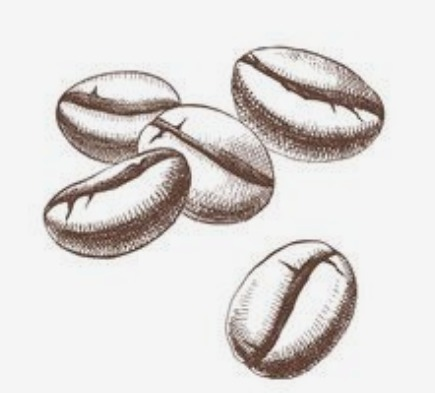
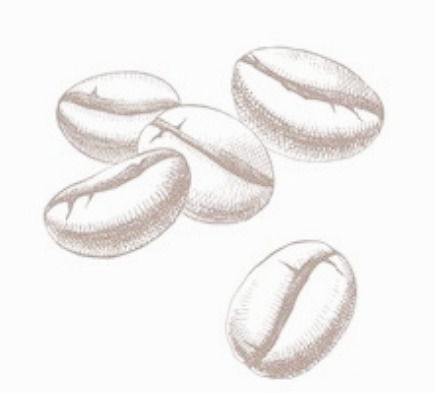
Фон страниц

Changed region(s): [[0.0897, 0.0916, 0.8966, 0.6718], [0.508, 0.6107, 0.8368, 0.9771]]

diff --git a/backend/templates/points/service.html b/backend/templates/points/service.html
@@ -14,7 +14,7 @@
 
         body {
             color: black;
-            background-image: url('{% static "coffeetogo.jpg" %}');
+            background-image: url('{% static "coffee.jpg" %}');
             /* background-repeat: no-repeat; */
             background-position: center center;
             background-attachment: fixed;

diff --git a/backend/templates/points/repair.html b/backend/templates/points/repair.html
@@ -14,7 +14,7 @@
 
         body {
             color: black;
-            background-image: url('{% static "coffee1.jpg" %}');
+            background-image: url('{% static "coffee.jpg" %}');
             /* background-repeat: no-repeat; */
             background-position: center center;
             background-attachment: fixed;
